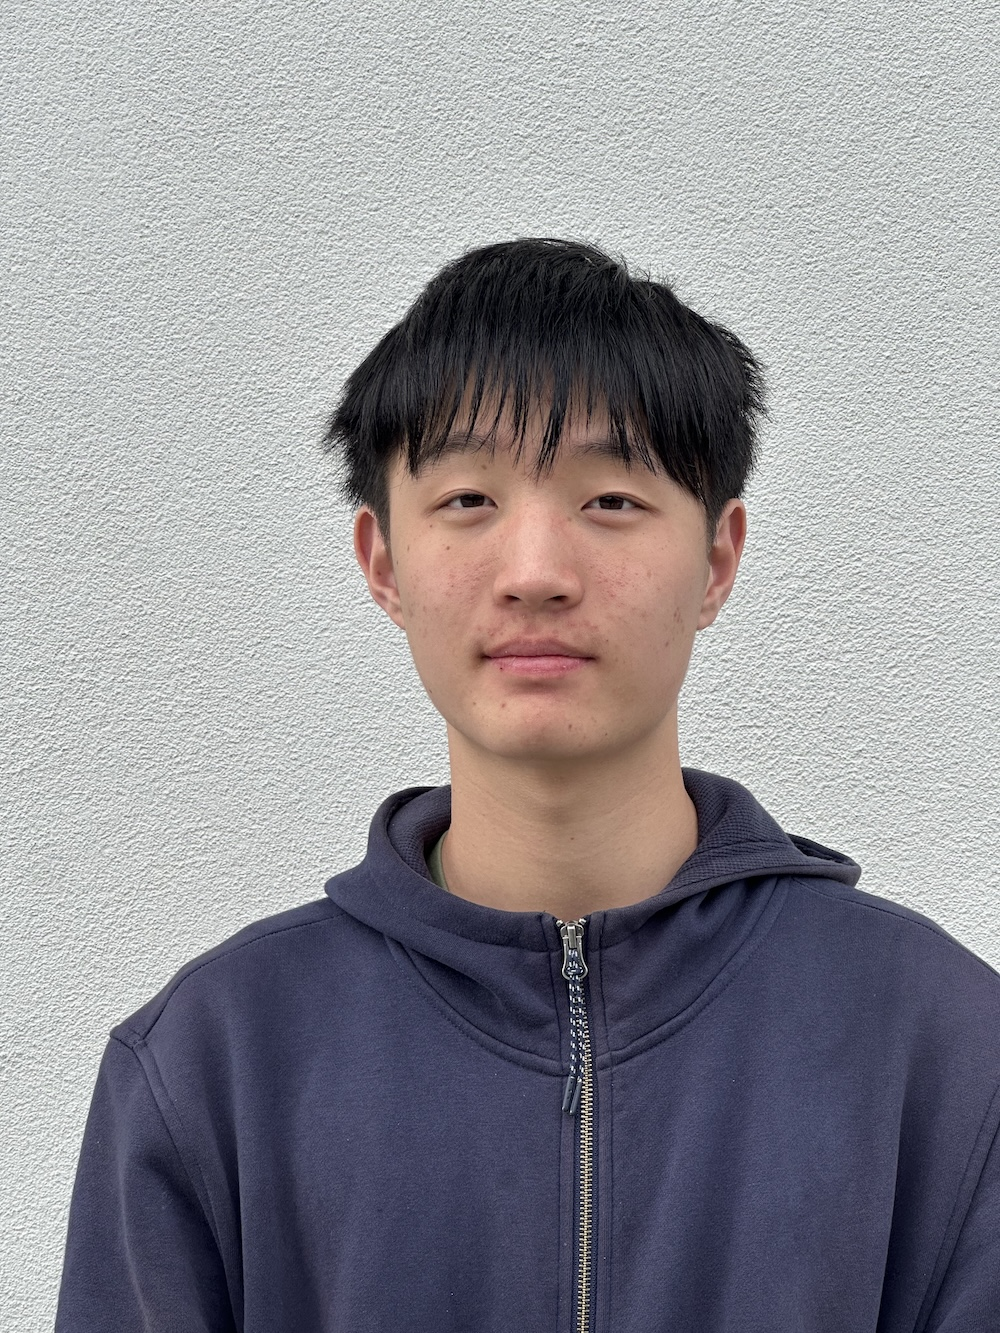
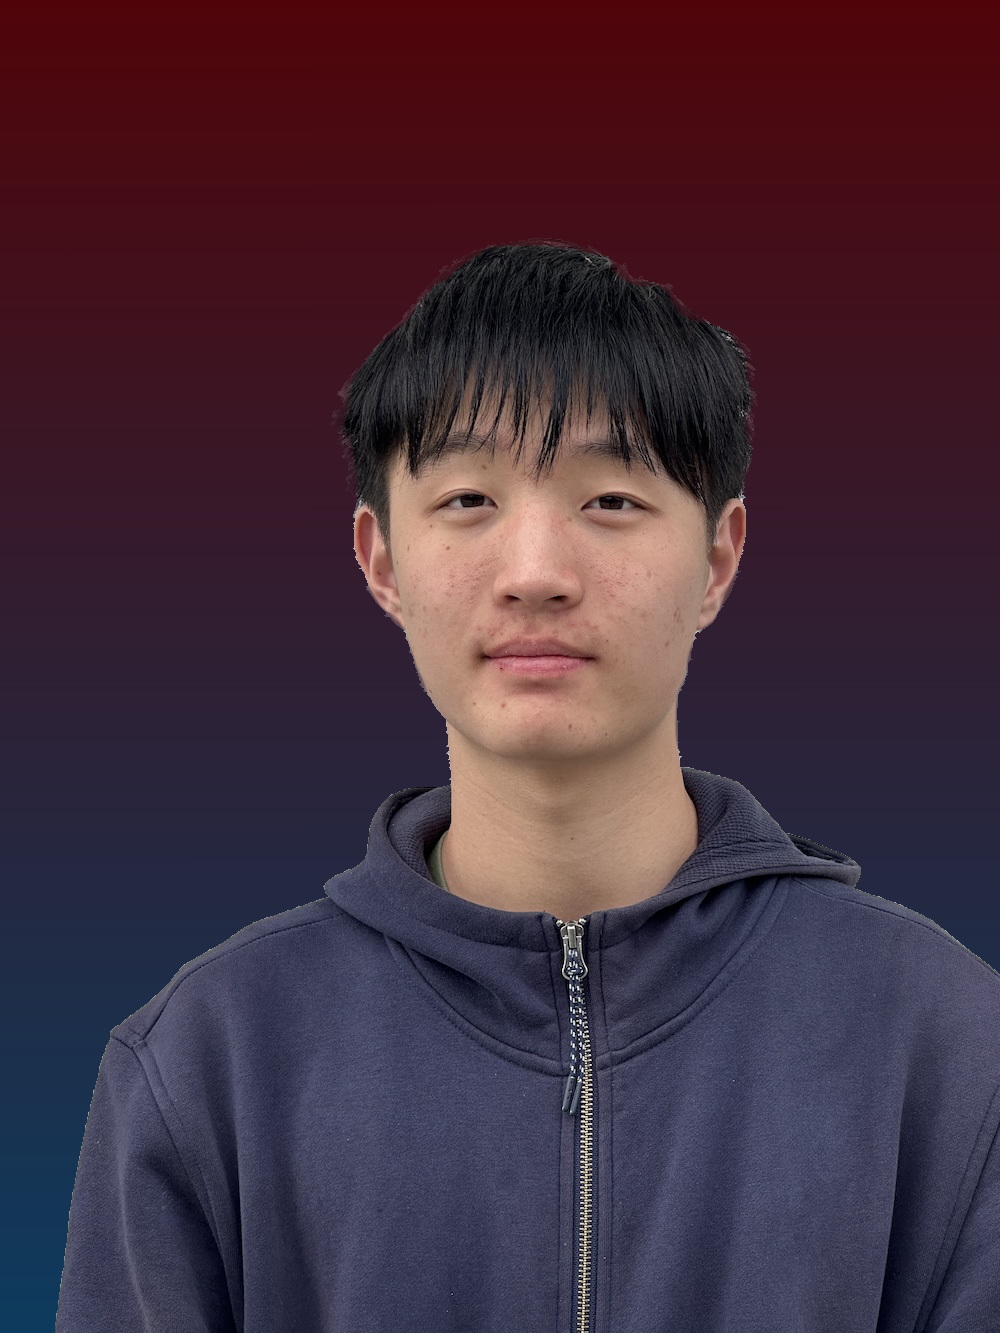
thank you team 2026 page

diff --git a/solar car website/team-26.html b/solar car website/team-26.html
@@ -202,7 +202,7 @@
     <div class = "heroBanner">
         <div class = "siteTopic">
             <h1>TEAM 2026</h1>
-            <p>Our team is driven by a passion for engineering, aiming to practice both the technical expertise and the soft skills necessary to become a successful engineer. This team participated in the 2026 Texas Solar Car Challenge.</p>
+            <p>Our team is driven by a passion for engineering, aiming to practice both the technical expertise and the soft skills necessary to become a successful engineer. This team contributed to our 2026 Advanced Division Solar Car.</p>
         </div>
     </div>
     <div class = "mainContent">
@@ -227,11 +227,6 @@
 				<p class = "bio">I am interested in learning different types of engineering. I also enjoy playing soccer and play for the Mountain View High School team. I also like going to the gym. I am half Vietnamese half white. Some of my favorite activities are hanging out with friends and traveling.</p>
 			</div>
 			<div class = "teamMember">
-				<img class="bioPhoto" src = "bio-photos/jerry.jpeg">
-				<h2 class = "name">Jerry Liang<br>Website Developer & Media<br>Class of 2026</h2>
-				<p class = "bio">Better at building cars than most web developers, and better at web development than most car builders. Through Garage 803 Racing I am proud to have taken part in the construction process and become the number 1 angle grinder user of the team.</p>
-			</div>
-			<div class = "teamMember">
 				<img class="bioPhoto" src = "bio-photos/yuriy.jpeg">
 				<h2 class = "name">Yuriy Korniychuk<br>Mechanical Lead<br>Class of 2026</h2>
 				<p class = "bio">I’m someone who enjoys building, fixing, and understanding how things work. I have a strong passion for engineering and love hands-on projects. One of my hobbies is designing, building and flying remote control aircraft. I love creating new things and I’m always looking for ways to apply engineering skills to solve problems and improve how things function.</p>
@@ -245,6 +240,11 @@
 				<img class="bioPhoto" src = "bio-photos/lezhi.jpeg">
 				<h2 class = "name">Lezhi Zeng<br>Co-Electrical Lead<br>Class of 2027</h2>
 				<p class = "bio">I like all kinds of engineering, from school electives to FIRST Robotics and the solar car team. I specialize in electrical systems but also work with computer science, CAD, and other mechatronics. Collaborating with others and exploring new ways to create are always my top priorities. In my free time, I enjoy art, photography, and studying architecture.</p>
+			</div>
+            <div class = "teamMember">
+				<img class="bioPhoto" src = "bio-photos/jerry.jpeg">
+				<h2 class = "name">Jerry Liang<br>Website Developer & Media<br>Class of 2026</h2>
+				<p class = "bio">Better at building cars than most web developers, and better at web development than most car builders. Through Garage 803 Racing I am proud to have taken part in the construction process and become the number 1 angle grinder user of the team.</p>
 			</div>
             <div class = "teamMember">
 				<img class="bioPhoto" src = "bio-photos/lukas.jpeg">
@@ -264,7 +264,7 @@
 			</div>
             <div class = "teamMember">
 				<img class="bioPhoto" src = "bio-photos/kai.jpg">
-				<h2 class = "name">Kai Amemiya<br>Mechanical Team<br>Class of 2027</h2>
+				<h2 class = "name">Kai Amemiya<br>Mechanical Team &<br>2026 Race Safety Officer<br>Class of 2027</h2>
 				<p class = "bio"></p>
 			</div>
             <div class = "teamMember">
@@ -275,12 +275,60 @@
             
              <div class = "teamMember">
 				<img class="bioPhoto" src = "images/bio-placeholder.jpg">
-				<h2 class = "name">Logan Barrett<br>Electrical Team<br>Class of 2027</h2>
+				<h2 class = "name">Logan Barrett<br>Telemetry System Design<br>Class of 2027</h2>
 				<p class = "bio"></p>
 			</div>
             <div class = "teamMember">
 				<img class="bioPhoto" src = "images/bio-placeholder.jpg">
-				<h2 class = "name">Yonathan Har Gil<br>Electrial Team<br>Class of 2028</h2>
+				<h2 class = "name">Yonathan Har Gil<br>Early Season Contributor<br>Class of 2028</h2>
+				<p class = "bio"></p>
+			</div>
+            <div class = "teamMember">
+				<img class="bioPhoto" src = "bio-photos/tyler-pic-new.jpg">
+				<h2 class = "name">Tyler Wang<br>Early Season Contributor<br>Class of 2026</h2>
+				<p class = "bio">I was born in Shanghai and moved to the
+				US when I was 6. With a life-long passion
+				in motorsports and engineering, Garage 803
+				Racing was the perfect space to develop my
+				interest and share it with others. Outside of
+				solar car racing, I enjoy playing guitar,
+				skiing, and working on engineering projects.</p>
+			</div>
+			<div class = "teamMember">
+				<img class="bioPhoto" src = "bio-photos/carl.jpg">
+				<h2 class = "name">Carl Haller<br>Early Season Contributor<br>Class of 2026</h2>
+				<p class = "bio">I'm a hands-on problem solver with a
+				passion for engineering and
+				programming. Whether it's building
+				a solar car, developing software, or
+				experimenting with new tech, I enjoy tackling
+				challenges and improving designs when
+				I have time. In my free time, I like exploring
+				new coding projects, learning about
+				aerodynamics and mechanical
+				engineering, and experimenting
+				with everything related to light.</p>
+			</div>
+            <div class = "teamMember">
+                <img class="bioPhoto" src = "bio-photos/will.jpg">
+                <h2 class = "name">Will Schreiber<br>Early Season Contributor<br>Class of 2026</h2>
+                <p class = "bio">I've had a strong passion for learning how things work and building my own things for as long as I can remember, from go karts and robots to the computers I use everyday. I see Garage 803 Racing as an opportunity to expand my skill sets and pursue my hobbies, while at the same time working with the technology that will be crucial to our future. 
+                    Outside of engineering I enjoy skiing, spending time outdoors, and video games.
+                </p>
+			</div>
+             <div class = "teamMember">
+				<img class="bioPhoto" src = "bio-photos/connor.jpeg">
+				<h2 class = "name">Connor Wang<br>Early Season Contributor<br>Class of 2029</h2>
+				<p class = "bio">I am a high school freshman with a strong interest in STEM and engineering, especially hands-on building projects where I can apply my skills and experience. I am excited to continue growing and refining my technical abilities through Garage 803 Racing.</p>
+			</div>
+            <div class = "teamMember">
+				<img class="bioPhoto" src = "bio-photos/aiden.jpeg">
+				<h2 class = "name">Aiden Noh<br>Early Season Contributor<br>Class of 2026</h2>
+				<p class = "bio"></p>
+			</div>
+            <div class = "teamMember">
+				<img class="bioPhoto" src = "images/bio-placeholder.jpg">
+				<h2 class = "name">Elif Cicek<br>Early Season Contributor<br>Class of 2026</h2>
 				<p class = "bio"></p>
 			</div>
     

diff --git a/solar car website/2026-thank-you-supporters.html b/solar car website/2026-thank-you-supporters.html
@@ -1,0 +1,121 @@
+<!DOCTYPE html>
+<html lang="en">
+<head>
+    <meta charset="UTF-8">
+    <meta name="viewport" content="width=device-width, initial-scale=1.0">
+    <title>Garage 803 Racing</title>
+    <meta property="og:image" content="https://garage803racing.org/images/preview-image.jpg">
+    <meta property="og:site_name" content="Garage 803 Racing" />
+    <meta property="og:title" content="Garage 803 Racing" />
+    <meta property="twitter:title" content="Garage 803 Racing" />
+    <meta property="og:url" content="https://garage803racing.org/" />
+    <meta property="og:type" content="website">
+    <meta property="og:description" content="Welcome to Garage 803 Racing Solar Car Team!"/>
+    
+    <meta property="og:image:secure_url" content="https://garage803racing.org/images/preview-image.jpg"/>
+    <meta property="twitter:image" content="https://garage803racing.org/images/preview-image.jpg"/>
+    <meta name="twitter:card" content="summary_large_image">
+    <meta name="twitter:description" content="Welcome to Garage 803 Racing Solar Car Team!">
+    <link rel="icon" type="image/x-icon" href="images/browser-site-icon.png">
+    <link rel = "stylesheet" href = "dropdown.css">
+    <link rel = "stylesheet" href = "navbar.css">
+    <link rel = "stylesheet" href = "footer.css">
+</head>
+<style>
+    @font-face{
+        font-family: sf-pro;
+        src: url("fonts/SF-Pro-Display-Semibold.otf");
+        font-weight: 500;
+    }
+    @font-face{
+        font-family: sf-pro;
+        src: url("fonts/SF-Pro-Display-Regular.otf");
+        font-weight: 400;
+    }
+    @font-face{
+        font-family: sf-pro;
+        src: url("fonts/SF-Pro-Display-Thin.otf");
+        font-weight: 300;
+    }
+    @font-face{
+        font-family: sf-pro;
+        src: url("fonts/SF-Pro-Display-Heavy.otf");
+        font-weight: 600;
+    }
+    @keyframes fade-in{
+        from{
+            opacity: 0;
+        }
+    }
+    html{
+        overscroll-behavior-y: none;
+    }
+    main{
+        min-height: 100vh;
+        display: flex;
+        justify-content: center;
+        align-items: flex-start;
+    }
+    .blogContent{
+        display: flex;
+        flex-direction: column;
+        align-items: flex-start;
+        justify-content: flex-start;
+        margin-top: 10vw;
+        margin-bottom: 5em;
+        width: clamp(250px,90vw,1200px);
+        animation: fade-in 2.5s forwards;
+    }
+    .blogTitle{
+        font-family: sf-pro;
+        font-weight: 300;
+        margin-bottom: 0;
+        font-size: clamp(40px,5vw,65px);
+    }
+    .blogDate{
+        font-family: sf-pro;
+        font-weight: 300;
+        margin-top: 0;
+        font-size: clamp(15px,2vw,40px);
+    }
+    .blogMedia{
+        width: 100%
+    }
+    .blogDescription{
+        font-family: sf-pro;
+        font-weight: 300;
+        font-size: clamp(13px,1.5vw,20px);
+        width: 100%;
+        background-color: rgb(176, 231, 245);
+        padding: 1em;
+        box-sizing: border-box;
+        margin-bottom: 0.5em;
+    }
+    @media(max-width: 768px){
+        .blogContent{
+            margin-top: 15vw;
+        }
+    }
+</style>
+<body style = "margin: 0; font-family: sf-pro;">
+    <!-- Inner HTML in navbar.js-->
+    <div class = "navigation" id = "navbar">
+    </div>
+    <main>
+        <div class = "blogContent">
+            <h1 class = "blogTitle">Thank you supporters!</h1>
+            <h2 class = "blogDate">07/23/2026</h2>
+            <img class = "blogMedia" src = "images/2026-team-credits.jpg">
+            <p class = "blogDescription">Today marks the end of the 2026 Texas Solar Car Competition, and also marks two years of us building and racing solar cars. We would like to thank all the students who spent months working on all the different aspects of building the cars, including the early season supporters who helped create a draft of the car designs. Additionally, thank you to all of our sponsors who provided us with donations and lots of car parts to work with, such as the battery and solar panels that helped make our build possible. But most importantly, thank you to all the families who helped plan our participation in the competition in advance through arranging flights, lodging, meals, transportations, and purchasing last minute materials.</p>
+            <p class = "blogDescription">Regardless of when we plan to compete in the Solar Car Challenge again, I would like to point out how far we have come as a team, and to take the time to look back at all of our progress. We started off as two co-founders: Ryan Liu and Tyler Wang, who are interested in motorsports and formed this solar car club as part of our school. Over time, more students who are interested in cars & engineering joined, which expanded our team and deemed our 2025 solar car build possible. Our team eventually became an non-profit organization seperate from our school to overcome logistical issues. After scoring 3rd place in the Classic Division thanks to all the support from the families who came to help, we were able to spread the word through giving presentations in many STEM classes and recruit more students to our team.</p>
+            <p class = "blogDescription">As we eventually became a non-profit organization right before the build phase of our 2026 Solar Car, Mako, we were able to reach out to many shops through phone calls and in-person visits, and build connections with them throughout our project. We were also lucky to have MVHS Robotics who were willing to share part of their large workspace with us for a while. With all this full-time support from all of our teammates, families, and sponsors, our solar car was able to have a better balance and a higher testing speed. While it is not known when exactly will be our next time competing, we would like to take some time to reflect upon everything that has been created so far, and it was only because of you that made it possible.</p>
+        </div>
+    </main>
+    <!-- Inner HTML in footer.js -->
+     <footer id = "footer" style = "background-color: rgb(224, 224, 224);">
+        
+    </footer>
+</body>
+<script src = "navbar.js"></script>
+<script src = "footer.js"></script>
+</html>

diff --git a/solar car website/index.html b/solar car website/index.html
@@ -463,7 +463,7 @@
                 <p>2026 Solar Car</p>
                 <h2>MAKO</h2>
             </div>
-            <img class = "car-photo" src = "images/final-mako-sticker-cutout.png" onclick = "location.assign('https://live.solarcarchallenge.org')">
+            <img class = "car-photo" src = "images/final-mako-sticker-cutout.png" onclick = "location.assign('our-cars.html')">
             <div class = "car-stats-container">
                 <div class = "car-stat">
                     <p>Division</p>
@@ -522,6 +522,11 @@
         </section>
         <h1 style = "margin-top: 50px;">Our Stories</h1>
         <section class = "blogSection">
+             <div class = "thumbnailAndTitle" onclick = "location.assign('2026-thank-you-supporters.html')">
+                <img src = "thumbnails/2026-team-thumbnail.jpg" style = "width: 100%;">
+                <h2 class = "postTitle">Thank you supporters!</h2>
+                <p class = "postDate">July 23rd, 2026</p>
+            </div>
             <div class = "thumbnailAndTitle" onclick = "location.assign('2026-race-story.html')">
                 <img src = "thumbnails/2026-race-story-thumbnail.jpg" style = "width: 100%;">
                 <h2 class = "postTitle">2026 Race Photo Story</h2>
@@ -531,11 +536,6 @@
                 <img src = "thumbnails/scrutineering-highlights-thumbnail.jpg" style = "width: 100%;">
                 <h2 class = "postTitle">Scrutineering Highlights</h2>
                 <p class = "postDate">July 18th, 2026</p>
-            </div>
-             <div class = "thumbnailAndTitle" onclick = "location.assign('2026-team-check-in.html')">
-                <img src = "thumbnails/26-team-check-in-thumbnail.jpg" style = "width: 100%;">
-                <h2 class = "postTitle">2026 Team Check-In</h2>
-                <p class = "postDate">July 15th, 2026</p>
             </div>
         </section>
         <button class = "seeAllPostsButton" onclick = "location.assign('blogs.html')">See All →</button>

diff --git a/solar car website/team-25.html b/solar car website/team-25.html
@@ -209,15 +209,14 @@
             <h1>TEAM 2025</h1>
             <p>Our team is driven by a passion for engineering, 
                 aiming to practice both the technical expertise 
-                and the soft skills necessary to become a successful engineer. This team participated in the 
-            2025 Texas Solar Car Challenge. </p>
+                and the soft skills necessary to become a successful engineer. This team contributed to our 2025 Classic Division Solar Car. </p>
         </div>
     </div>
     <div class = "mainContent">
         <div class = "gallery">
 			<div class = "teamMember">
 				<img class="bioPhoto" src = "bio-photos/ryan.jpeg" alt = "">
-				<h2 class = "name">Ryan Liu<br>Co-Founder<br>Class of 2026</h2>
+				<h2 class = "name">Ryan Liu<br>Co-President<br>Class of 2026</h2>
 				<p class = "bio">As a California native with a deep passion
 				for engineering, I'm excited to share that
 				enthusiasm with other students. I enjoy the
@@ -231,7 +230,7 @@
 			</div>
 			<div class = "teamMember">
 				<img class="bioPhoto" src = "bio-photos/tyler-pic-new.jpg">
-				<h2 class = "name">Tyler Wang<br>Co-Founder<br>Class of 2026</h2>
+				<h2 class = "name">Tyler Wang<br>Co-President<br>Class of 2026</h2>
 				<p class = "bio">I was born in Shanghai and moved to the
 				US when I was 6. With a life-long passion
 				in motorsports and engineering, Garage 803

diff --git a/solar car website/blogs.html b/solar car website/blogs.html
@@ -193,6 +193,13 @@
         <h1 class = "title">Solar Car Updates</h1>
         <p class = "subtitle">Garage 803 Racing</p>
         <div class = "postsContainer">
+            <div class = "postCard" onclick = "location.assign('2026-thank-you-supporters.html')">
+                <img class = "postThumbnail" src = "thumbnails/2026-team-thumbnail.jpg">
+                <div class = "postTextContainer">
+                    <h2 class = "postTitle">Thank you supporters!</h2>
+                    <p class = "postDate">July 23rd, 2026</p>
+                </div>
+            </div>
              <div class = "postCard" onclick = "location.assign('2026-race-story.html')">
                 <img class = "postThumbnail" src = "thumbnails/2026-race-story-thumbnail.jpg">
                 <div class = "postTextContainer">
